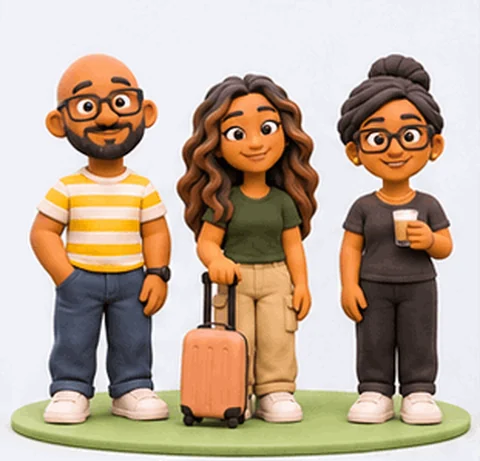
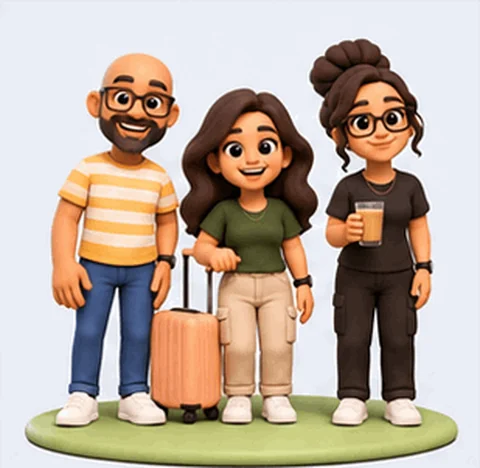
Redo group/hello with the new Kiru look; add kiru out dance and cheer
Claude-Session: https://claude.ai/code/session_01M9MLSzTgGmRpDx4quWz9qx

diff --git a/design/gen/status.md b/design/gen/status.md
@@ -115,8 +115,8 @@ Generated in ChatGPT, checked frame by frame, converted to 256x256 animated WebP
 | kiru/out/idle | done | 0 | provided by the user (chai-time blink, Kiru v2 look); not regenerated |
 | kiru/out/wave | done | 2 | redone in Kiru v2 look (earlier master-sheet-look versions replaced) |
 | kiru/out/laugh | done | 1 | redone in Kiru v2 look |
-| kiru/out/dance | pending | 0 |  |
-| kiru/out/cheer | pending | 0 |  |
+| kiru/out/dance | done | 1 | an earlier master-sheet-look version was discarded |
+| kiru/out/cheer | done | 1 | an earlier master-sheet-look version was discarded |
 | kiru/out/walk | pending | 0 |  |
 | kiru/out/travel | pending | 0 |  |
 | kiru/out/pack | pending | 0 |  |
@@ -166,7 +166,7 @@ Generated in ChatGPT, checked frame by frame, converted to 256x256 animated WebP
 | kiru/travel/idle | pending | 0 |  |
 | kiru/travel/wave | pending | 0 |  |
 | kiru/travel/travel | pending | 0 |  |
-| group/hello | done, redo pending | 0 | redo requested: Kiru in v2 look |
+| group/hello | done | 3 | redone with Kiru v2 look; 2 versions rejected (ghost second glass in one frame; glass switching hands + figures cut off); final: Kiru holds ONE glass in the same hand in all 16 frames (checked frame by frame) |
 | group/hug | pending | 0 |  |
 | group/welcome-dushy | pending | 0 |  |
 | group/welcome-ali | pending | 0 |  |
